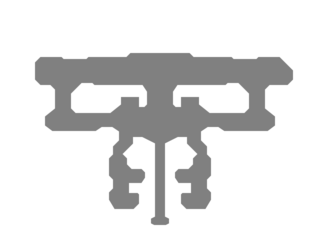
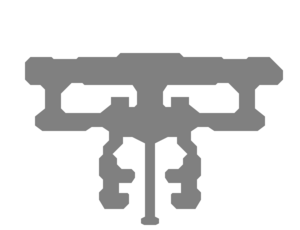
Fixing Crimson Branch bounds, adding display image for Dry Dock on its other floors

diff --git a/js/room-metadata.js b/js/room-metadata.js
@@ -240,6 +240,12 @@ var roomMetadata =
 		{"x": 0, "y": 128, "floor": 0, "outx": 0, "outy": 1},
 		{"x": 128, "y": 0, "floor": 0, "outx": 1, "outy": 0},
 		{"x": -128, "y": 0, "floor": 0, "outx": -1, "outy": 0}],
+	"floor_images": [
+		{"floor": -1, "image": "dry-dock-wall"},
+		{"floor": 0, "image": "dry-dock"},
+		{"floor": 1, "image": "dry-dock-wall"},
+		{"floor": 2, "image": "dry-dock-wall"},
+		{"floor": 3, "image": "dry-dock-wall"}],
 	"resources": [
 		{"resource": "Credits", "costs": [100000, 300000, 1000000, 3000000, 10000000]},
 		{"resource": "Salvage", "costs": [25000, 75000, 250000, 750000, 2500000]},
@@ -248,7 +254,7 @@ var roomMetadata =
 		{"resource": "Forma", "costs": [1, 1, 3, 8, 25]}]},
 {"id": "cr", "image": "crimson-branch", "name": "Crimson Branch", "category": "Interactive", "prereq": null, "capacity": -2, "energy": -4, "maxnum": null, "floor": 0, "ceil": 30,
 	"bounds": [
-		{"x1": -32, "y1":  8, "x2": 32, "y2": -30, "floor": 0, "ceil": 30},
+		{"x1": -30, "y1":  8, "x2": 30, "y2": -30, "floor": 0, "ceil": 30},
 		{"x1": -24, "y1": 16, "x2": 24, "y2": -30, "floor": 0, "ceil": 30}],
 	"doors": [
 		{"x": 0, "y": 16, "floor": 0, "outx": 0, "outy": 1}],

diff --git a/js/model.js b/js/model.js
@@ -372,11 +372,13 @@ class Room {
         if (!this.multifloor) {
             return [this.floor];
         }
+        // get the floor list from the doors.  The image list may contain extra floor images that we don't want to
+        // include unless there's something else on that floor.  It's the Dry Dock, I'm talking about the Dry Dock.
         var floors = Array();
-		for (var i = 0; i < this.metadata.floor_images.length; i++) {
-			floors.push(this.floor + this.metadata.floor_images[i].floor);
-        }
-        return floors;
+		for (var d = 0 ; d < this.doors.length; d++) {
+			addToListIfNotPresent(floors, this.doors[d].floor);
+		}
+		return floors;
     }
 
     setDebug(debug) {
